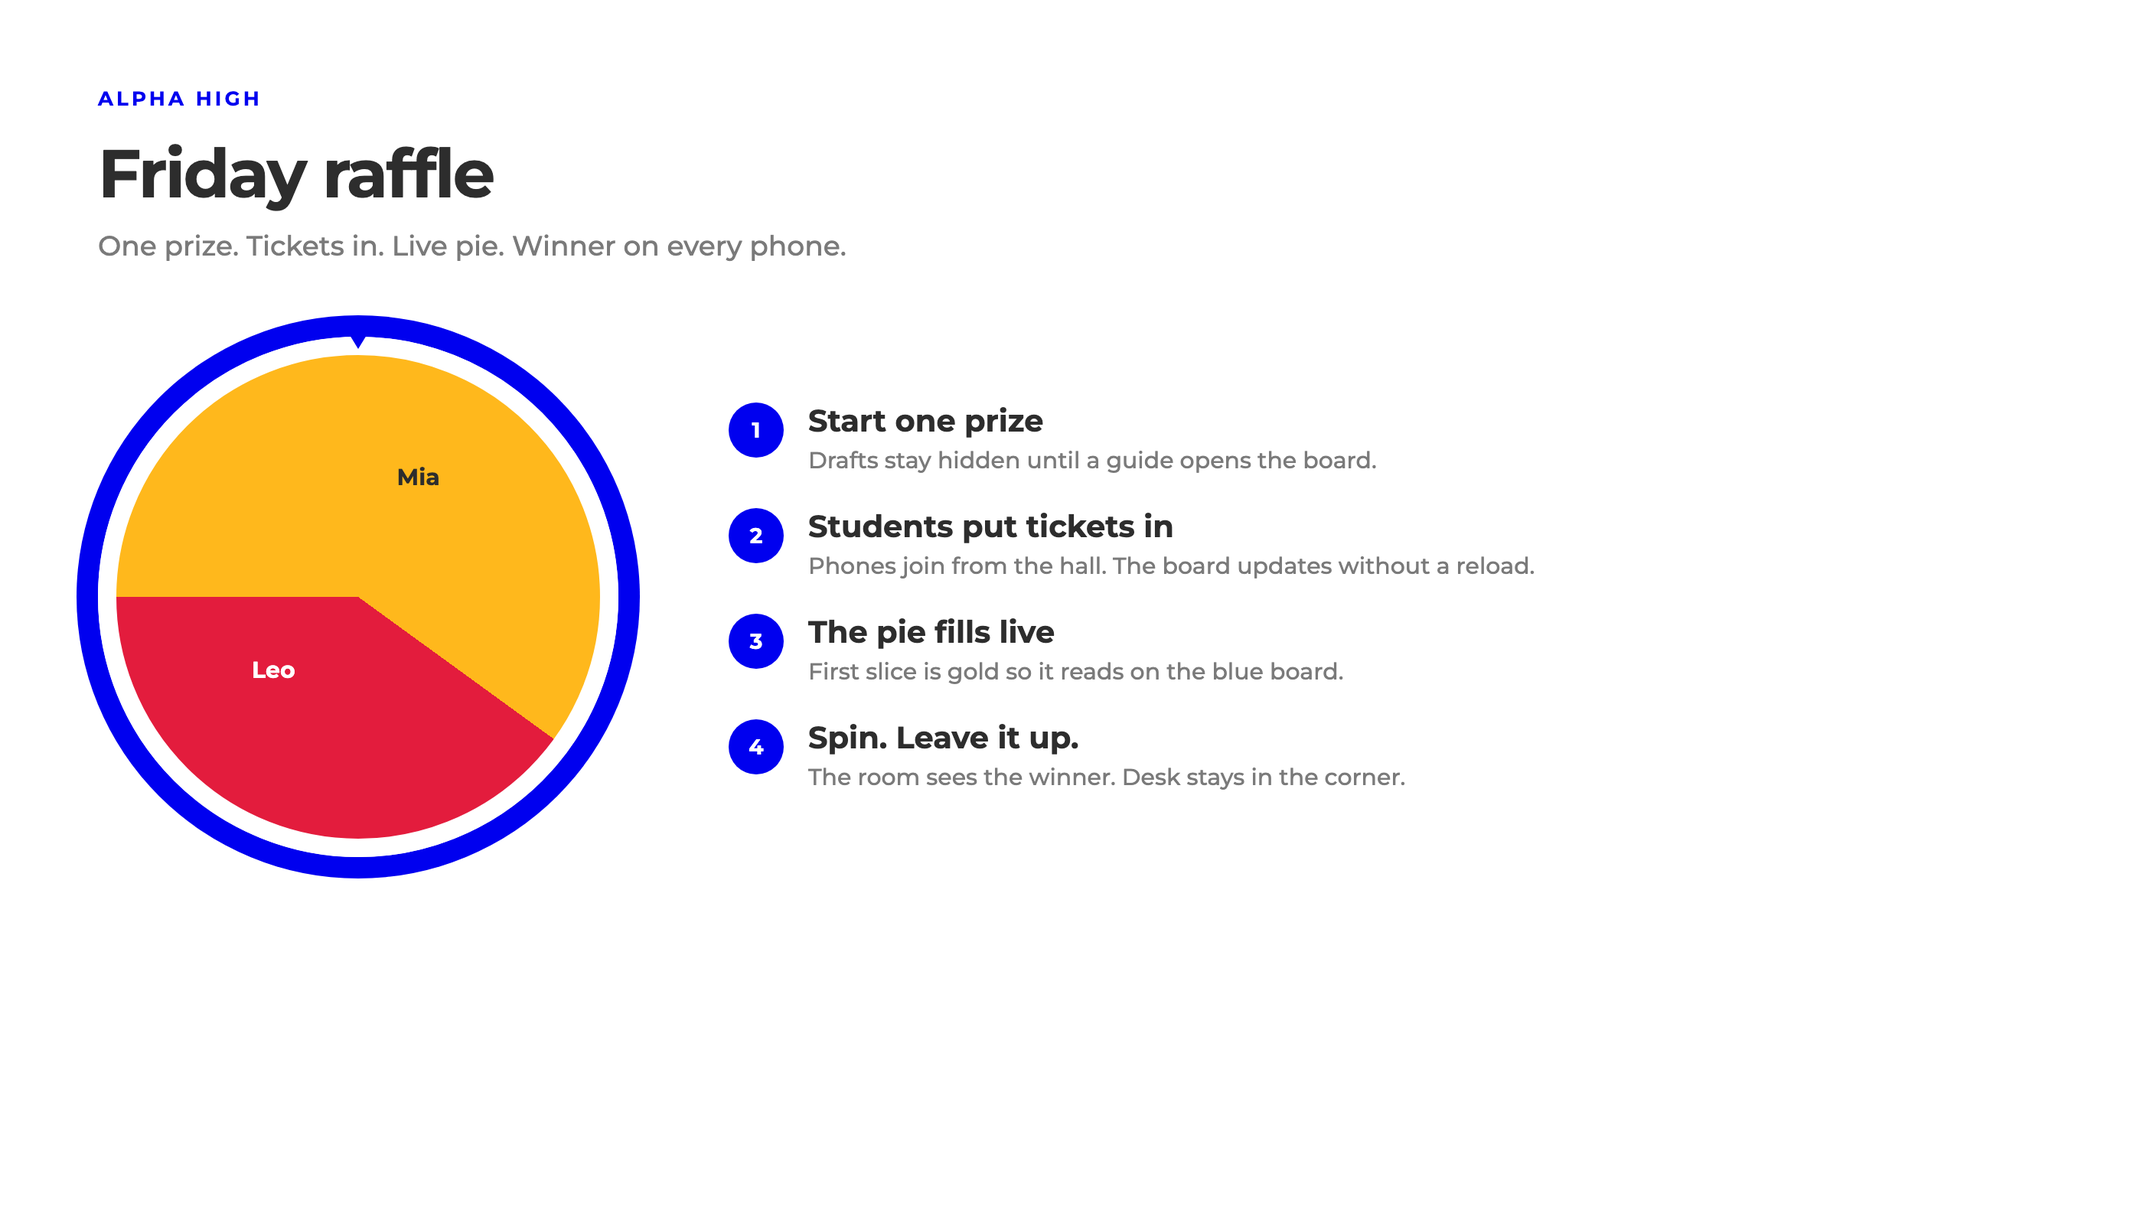
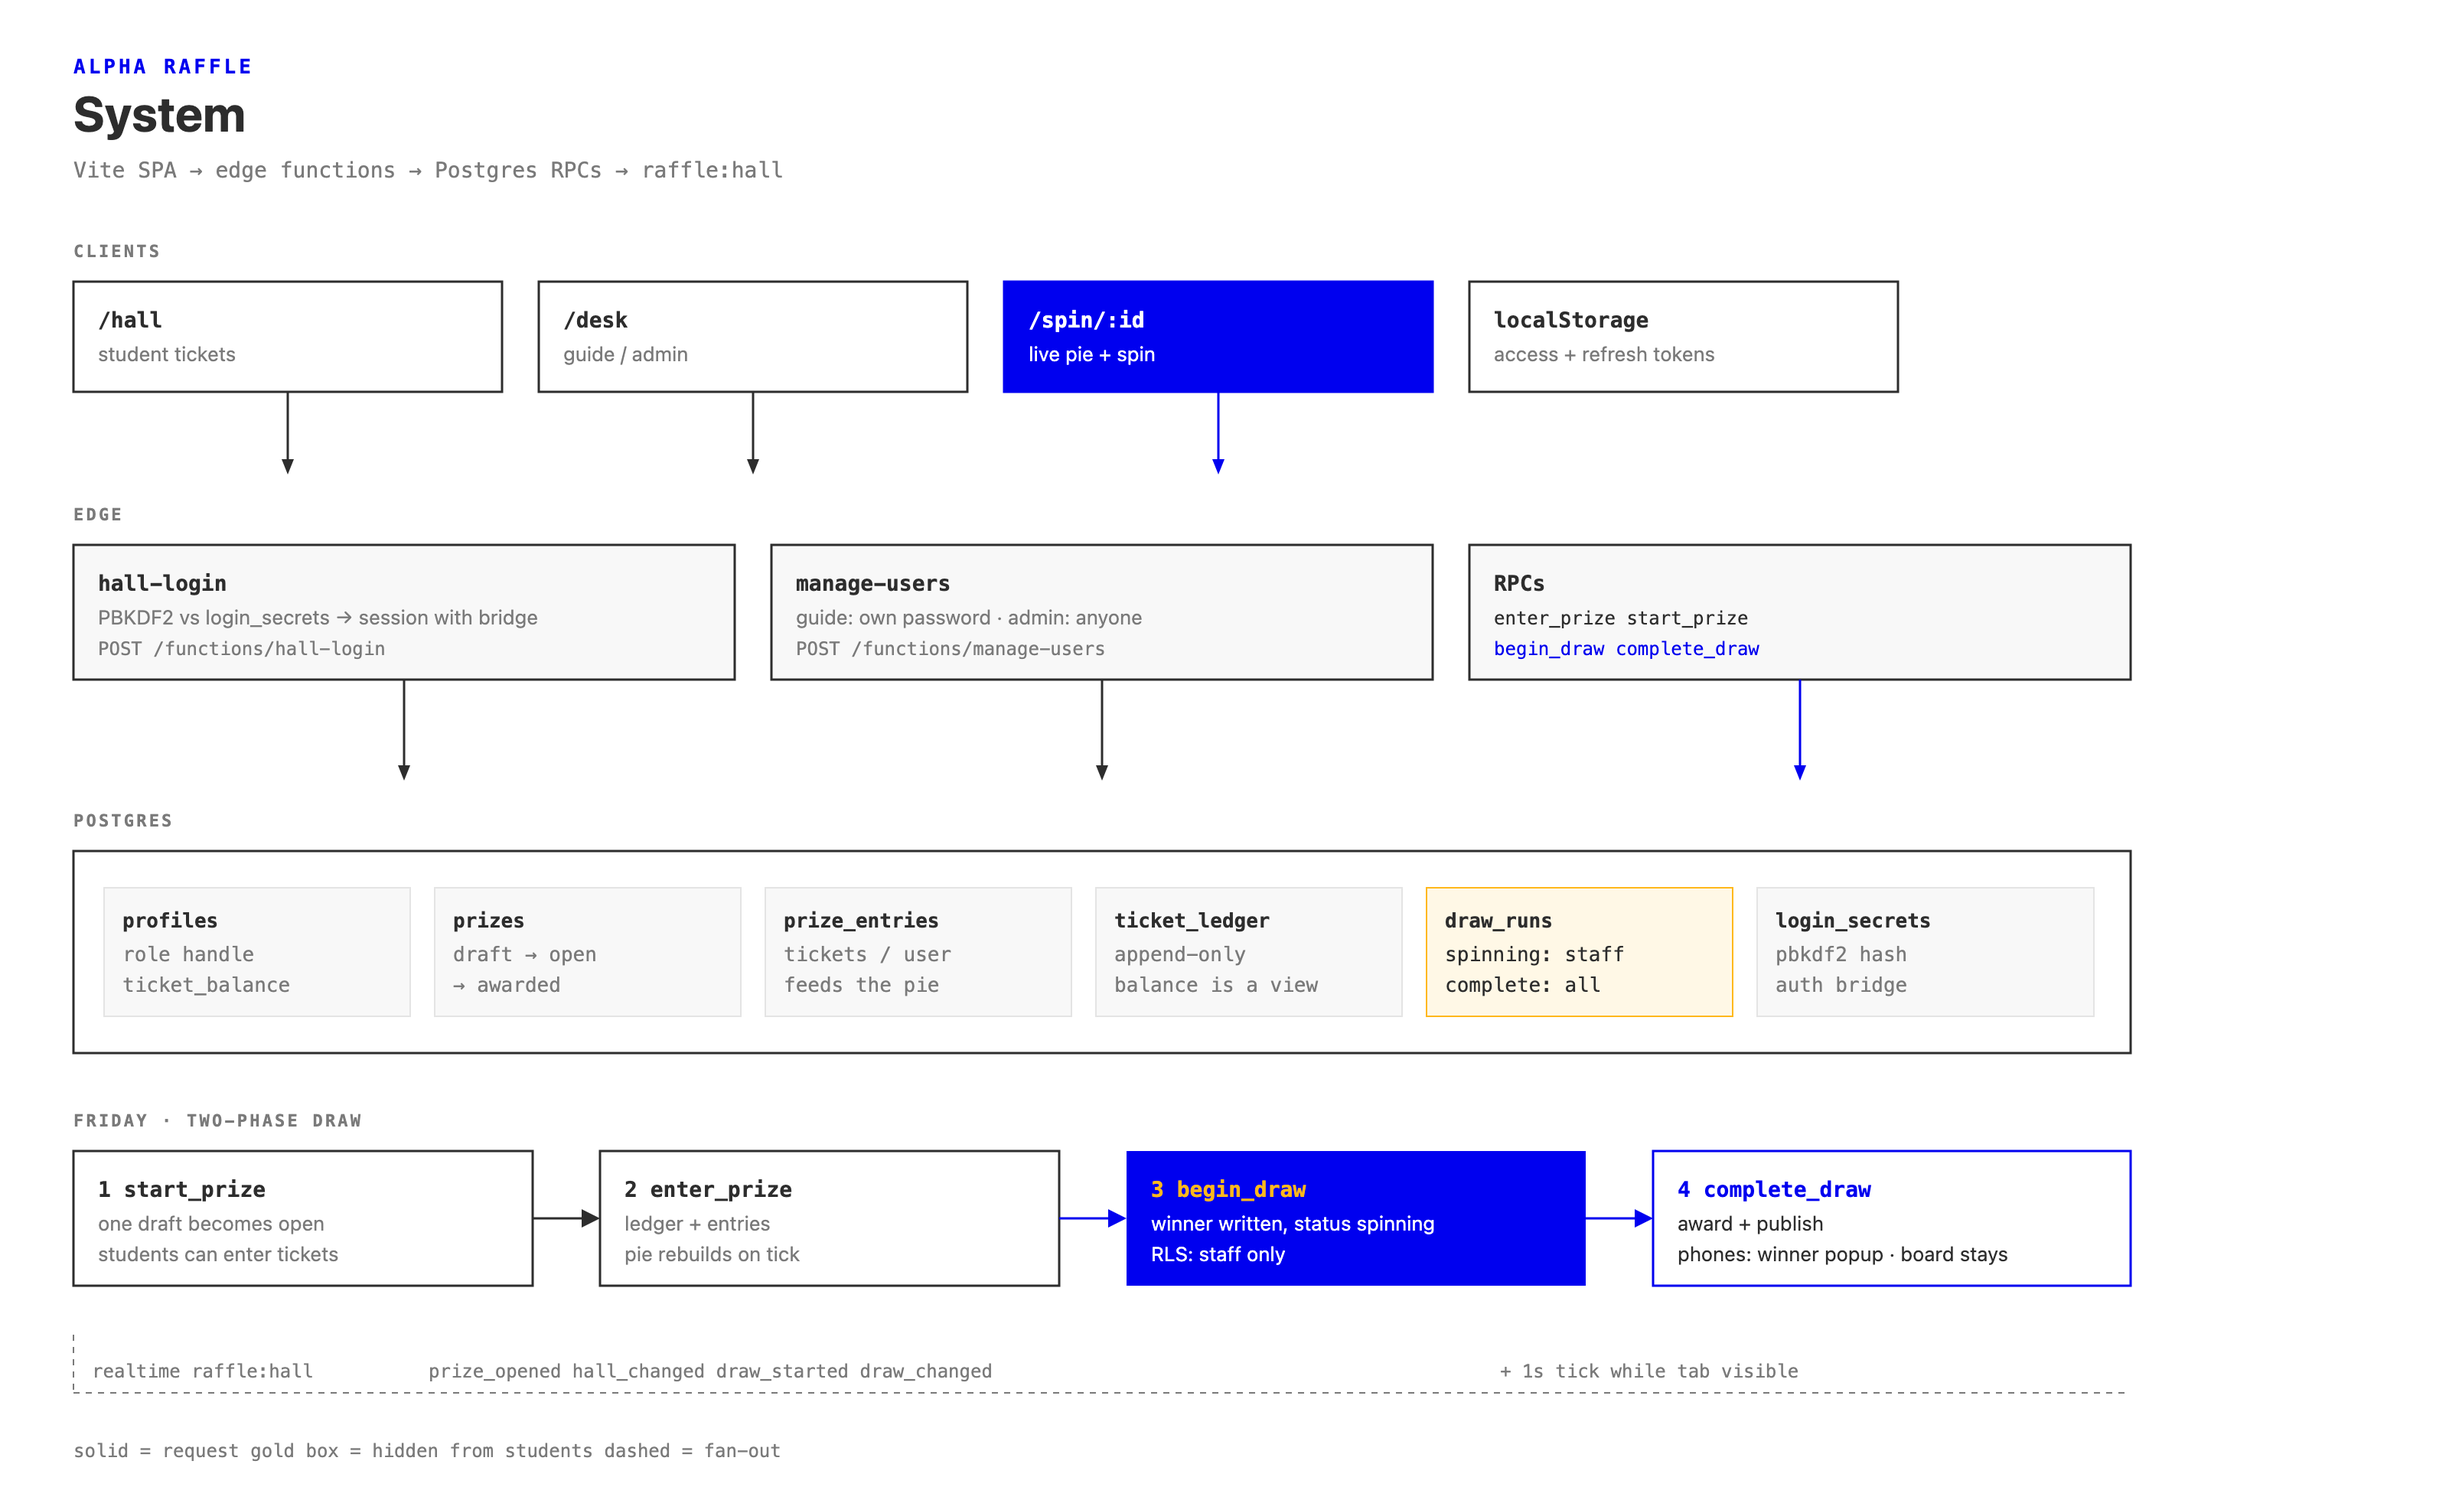
Replace the README hero with a system diagram.
GitHub needs a PNG of the real path: clients, edge functions, tables, and the two-phase draw.

diff --git a/docs/diagrams/friday-raffle.html b/docs/diagrams/friday-raffle.html
@@ -2,139 +2,12 @@
 <html lang="en">
   <head>
     <meta charset="utf-8" />
-    <link rel="preconnect" href="https://fonts.googleapis.com" />
-    <link rel="preconnect" href="https://fonts.gstatic.com" crossorigin />
-    <link href="https://fonts.googleapis.com/css2?family=Montserrat:wght@500;600;700&display=swap" rel="stylesheet" />
     <style>
-      * { box-sizing: border-box; }
-      html, body { margin: 0; }
-      body {
-        width: 1400px;
-        height: 788px;
-        background: #fff;
-        color: #2d2d2d;
-        font-family: Montserrat, Helvetica, Arial, sans-serif;
-        padding: 56px 64px 48px;
-      }
-      .mark {
-        font-size: 13px;
-        font-weight: 700;
-        letter-spacing: 0.16em;
-        color: #0000ef;
-      }
-      h1 {
-        margin: 14px 0 0;
-        font-size: 44px;
-        font-weight: 700;
-        letter-spacing: -0.03em;
-      }
-      .lead {
-        margin: 10px 0 0;
-        font-size: 18px;
-        color: #7a7a7a;
-        font-weight: 500;
-      }
-      .row {
-        display: grid;
-        grid-template-columns: 340px 1fr;
-        gap: 72px;
-        margin-top: 48px;
-        align-items: center;
-      }
-      .board {
-        width: 340px;
-        height: 340px;
-        border-radius: 50%;
-        background: conic-gradient(from -90deg, #ffb81c 0 216deg, #e31c3d 216deg 360deg);
-        border: 12px solid #fff;
-        box-shadow: 0 0 0 14px #0000ef;
-        position: relative;
-      }
-      .board::after {
-        content: "";
-        position: absolute;
-        left: 50%;
-        top: -22px;
-        transform: translateX(-50%);
-        border-left: 11px solid transparent;
-        border-right: 11px solid transparent;
-        border-top: 18px solid #0000ef;
-      }
-      .mia, .leo {
-        position: absolute;
-        font-size: 15px;
-        font-weight: 700;
-        color: #fff;
-      }
-      .mia { left: 58%; top: 22%; color: #2d2d2d; }
-      .leo { left: 28%; top: 62%; }
-      ol {
-        list-style: none;
-        margin: 0;
-        padding: 0;
-        display: grid;
-        gap: 22px;
-      }
-      li {
-        display: grid;
-        grid-template-columns: 36px 1fr;
-        gap: 16px;
-        align-items: start;
-      }
-      .n {
-        width: 36px;
-        height: 36px;
-        border-radius: 50%;
-        background: #0000ef;
-        color: #fff;
-        font-size: 14px;
-        font-weight: 700;
-        display: grid;
-        place-items: center;
-      }
-      .t { font-size: 20px; font-weight: 700; margin: 0; }
-      .d { font-size: 15px; color: #7a7a7a; margin: 4px 0 0; font-weight: 500; }
+      html, body { margin: 0; background: #fff; }
+      img { display: block; width: 1600px; height: 980px; }
     </style>
   </head>
   <body>
-    <div class="mark">ALPHA HIGH</div>
-    <h1>Friday raffle</h1>
-    <p class="lead">One prize. Tickets in. Live pie. Winner on every phone.</p>
-    <div class="row">
-      <div class="board" aria-hidden="true">
-        <span class="mia">Mia</span>
-        <span class="leo">Leo</span>
-      </div>
-      <ol>
-        <li>
-          <span class="n">1</span>
-          <div>
-            <p class="t">Start one prize</p>
-            <p class="d">Drafts stay hidden until a guide opens the board.</p>
-          </div>
-        </li>
-        <li>
-          <span class="n">2</span>
-          <div>
-            <p class="t">Students put tickets in</p>
-            <p class="d">Phones join from the hall. The board updates without a reload.</p>
-          </div>
-        </li>
-        <li>
-          <span class="n">3</span>
-          <div>
-            <p class="t">The pie fills live</p>
-            <p class="d">First slice is gold so it reads on the blue board.</p>
-          </div>
-        </li>
-        <li>
-          <span class="n">4</span>
-          <div>
-            <p class="t">Spin. Leave it up.</p>
-            <p class="d">The room sees the winner. Desk stays in the corner.</p>
-          </div>
-        </li>
-      </ol>
-    </div>
+    <img src="./friday-raffle.svg" width="1600" height="980" alt="" />
   </body>
 </html>

diff --git a/README.md b/README.md
@@ -6,7 +6,7 @@ One prize at a time. Students put tickets in. The pie fills live. Spin, and ever
 
 **Live site:** [ak29gamq.insforge.site](https://ak29gamq.insforge.site)
 
-![Friday raffle](docs/diagrams/friday-raffle.png)
+![System diagram](docs/diagrams/friday-raffle.png)
 
 ## Sign in
 
@@ -40,7 +40,7 @@ Full steps: [docs/MIGRATE.md](docs/MIGRATE.md)
 Colors and type: [docs/STYLE.md](docs/STYLE.md)  
 For coding agents: [AGENTS.md](AGENTS.md)
 
-The diagram above also lives as an editable board: [friday-flow](https://draw.insforge.site/#p=alpha-raffle/friday-flow).
+Source: [docs/diagrams/friday-raffle.svg](docs/diagrams/friday-raffle.svg). Editable copy: [friday-flow](https://draw.insforge.site/#p=alpha-raffle/friday-flow).
 
 ## License
 
